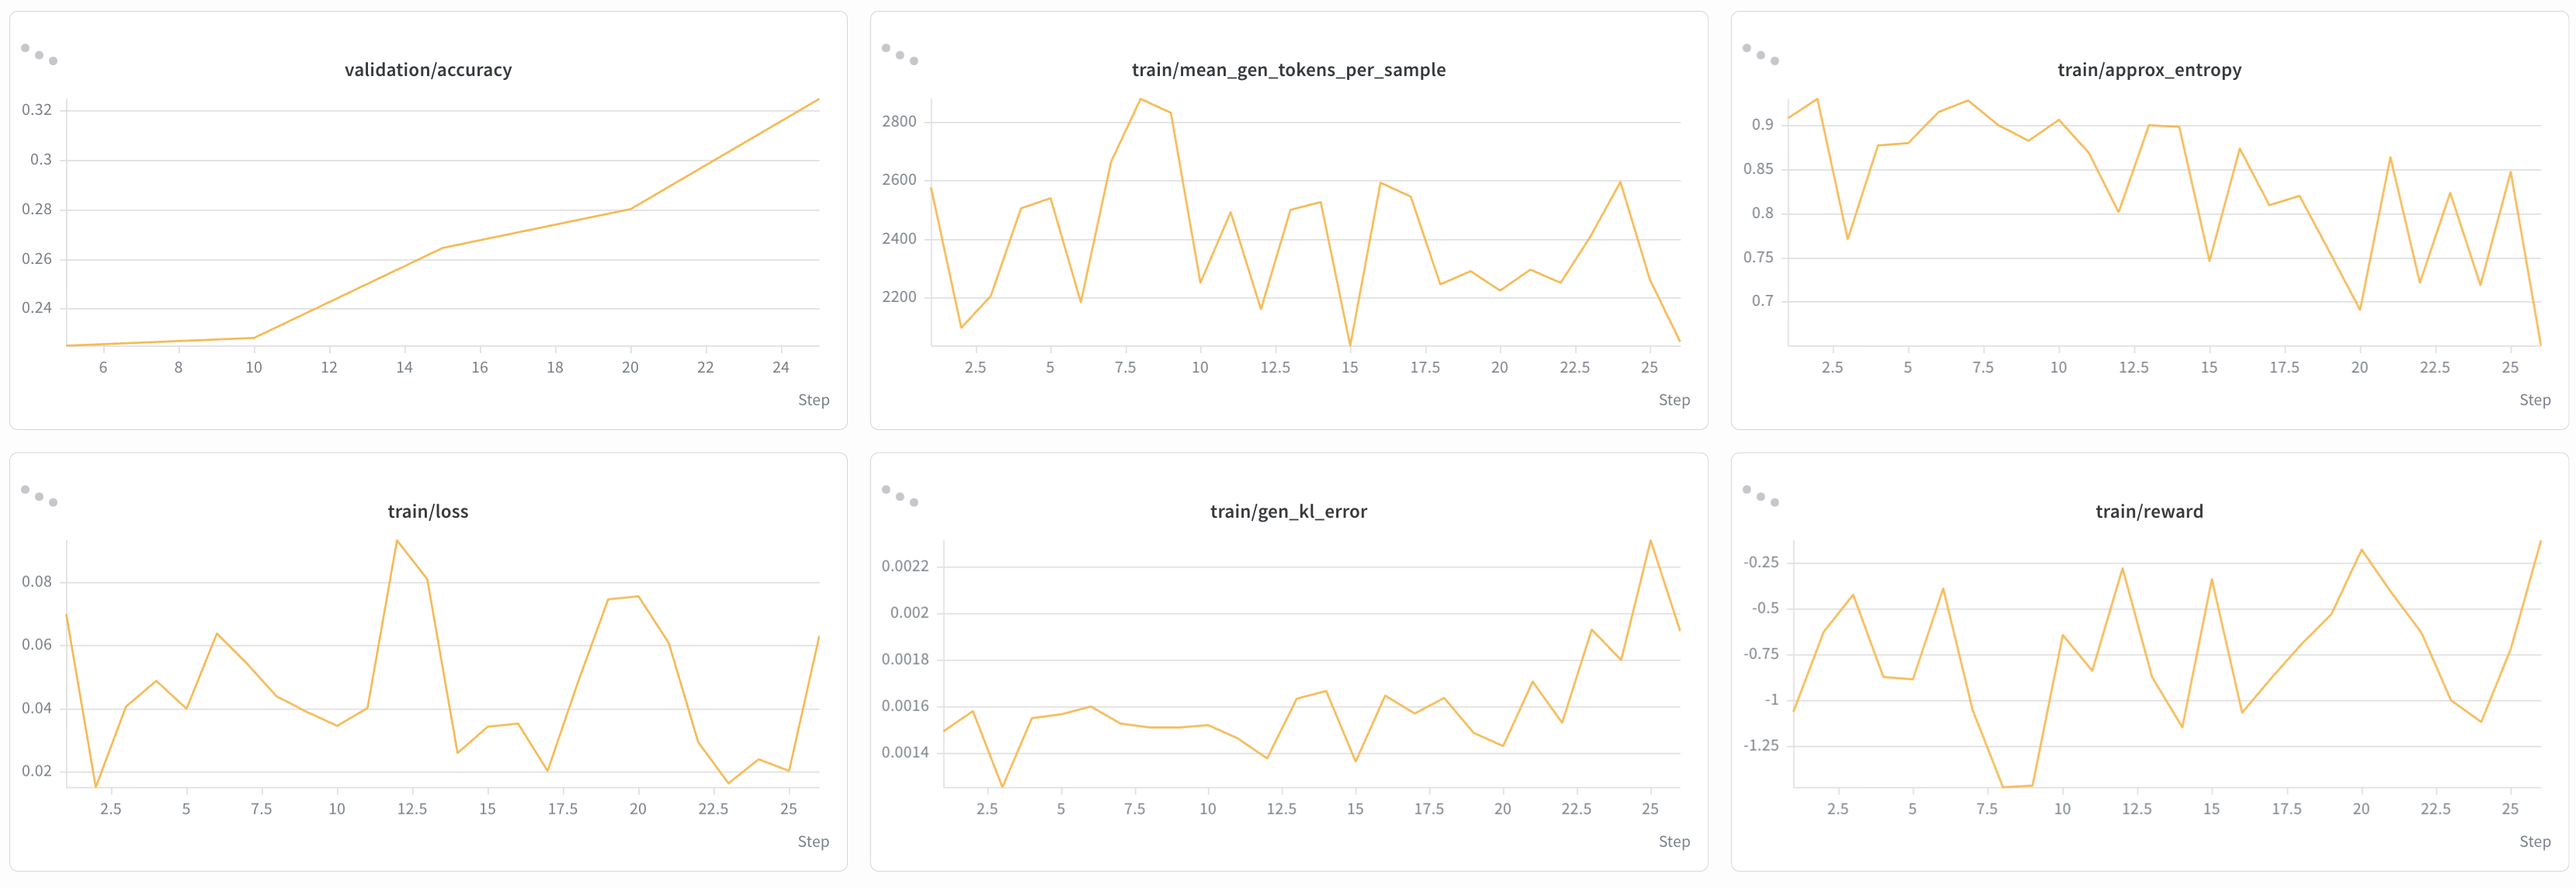
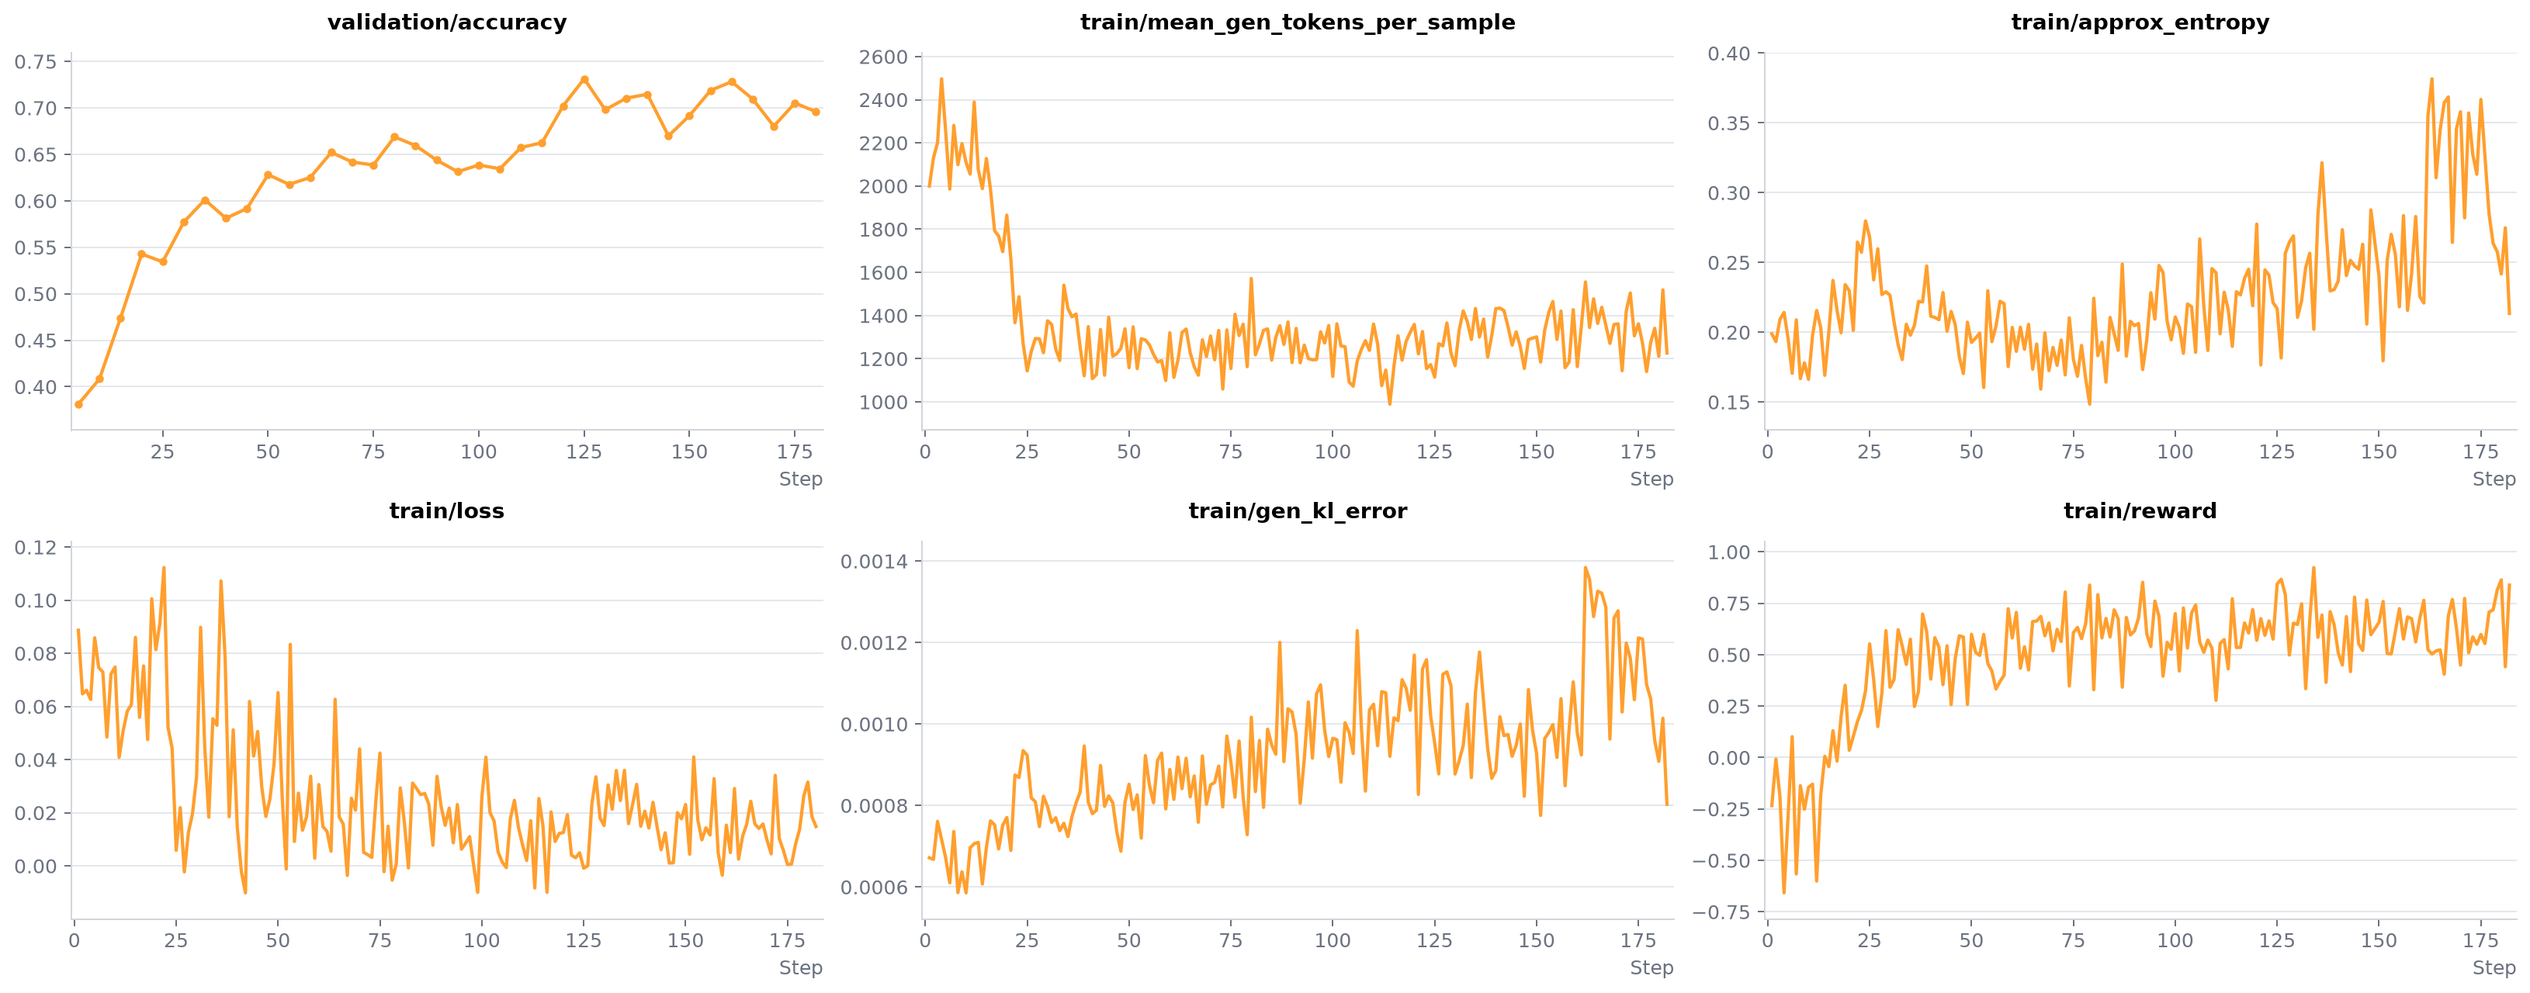
fix(qwen38): align recipe with validated run
(cherry picked from commit a83585929f462825d4c548fc3bc3dd563ea4624d)

diff --git a/docs/guides/models/qwen/qwen3-8-flash-next.md b/docs/guides/models/qwen/qwen3-8-flash-next.md
@@ -156,10 +156,13 @@ uv run examples/run_grpo.py --config <recipe> cluster.num_nodes=8
 
 ### Training curves
 
-The curves below show the first 26 steps of the initial 4k GRPO run. They are an
-early functional signal; long-run convergence has not yet been validated.
+The curves below show 182 training steps from the latest 4k GRPO experiment.
+Validation accuracy improves from 0.381 at step 5 to 0.696 at step 180, while
+training reward increases from -0.234 to 0.838 and mean generated tokens per
+sample decreases from about 2,000 to 1,226. These results extend functional
+validation; long-run convergence has not yet been established.
 
-![Initial 4k GRPO training curves for Qwen3.8-Flash-Next: validation accuracy, mean generated tokens per sample, approximate entropy, training loss, generation KL error, and reward](../../../assets/qwen3-8/qwen3.8-flash-next-4k-grpo-training-curves.png)
+![182-step 4k GRPO training curves for Qwen3.8-Flash-Next: validation accuracy, mean generated tokens per sample, approximate entropy, training loss, generation KL error, and reward](../../../assets/qwen3-8/qwen3.8-flash-next-4k-grpo-training-curves.png)
 
 ## Known Issues
 
